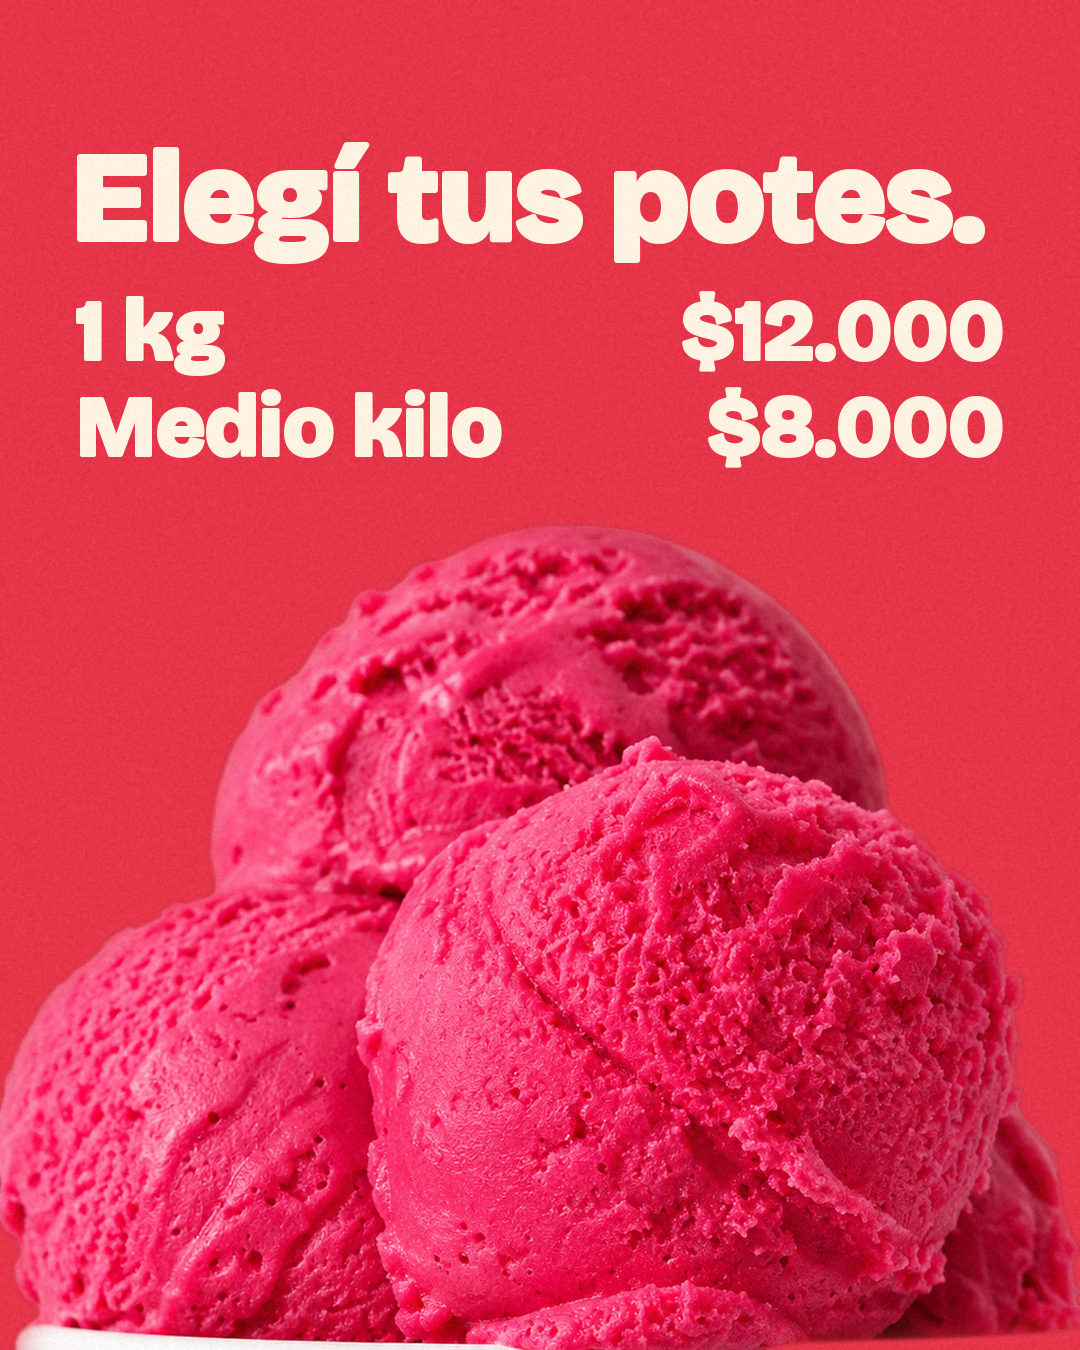
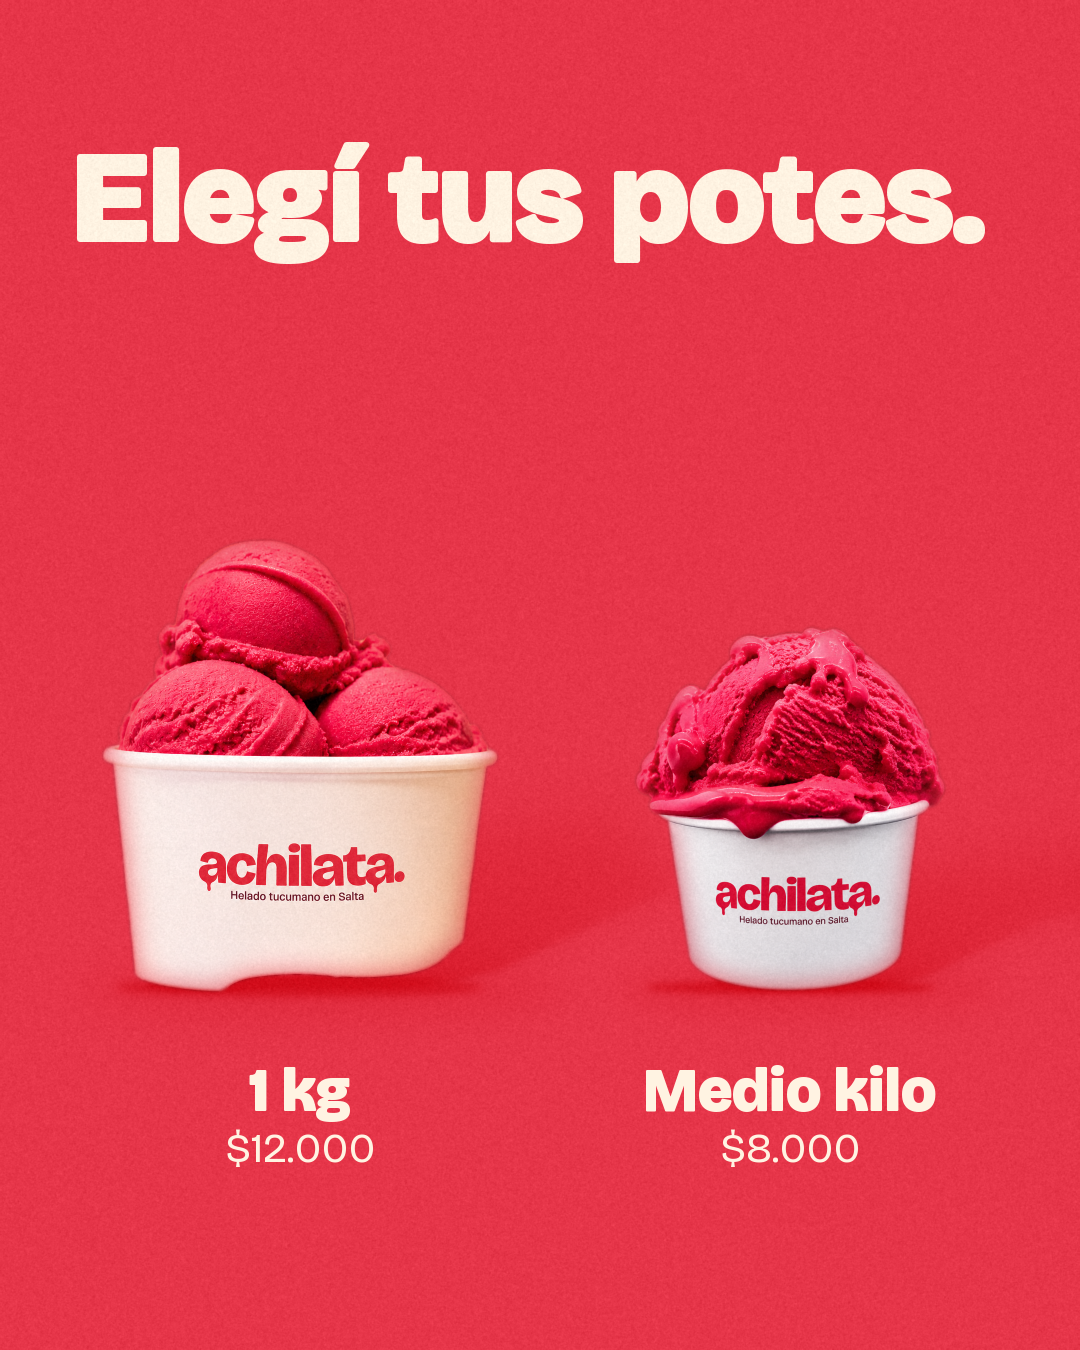
P13 sin turnos: placa 2 con aire y potes chicos, placa 3 Poné tu dirección; historias de la web quedan H24 y H25

diff --git a/06_Assets/fotos/herramientas/build_p13_web.py b/06_Assets/fotos/herramientas/build_p13_web.py
@@ -2,7 +2,8 @@
 # Rehechas a partir de la P17 y las H06 del colega. Reglas nuevas de Lauti:
 #  - bordes del recorte difuminados y suaves, con sombra natural: Lienzo.suave = 1.8
 #  - el texto nunca pisa el producto: primero se mide dónde termina el texto y el producto va debajo, con aire
-#  - textos breves; un solo peso por renglón, también dentro de la tabla de turnos
+#  - textos breves; un solo peso por renglón
+#  - 26/11: sin turnos por ahora. La placa 2 con mucho aire, potes chicos lado a lado como las placas de sabores de Morgenstern's
 # Uso: python build_p13_web.py <carpeta de recortes V>
 from feed_comun import *
 V=sys.argv[1]
@@ -47,33 +48,35 @@ A=producto(L,'05',fin_texto+AIRE,1.0,0,'r')
 def at(d,im):
     T(d,72,tb,'Pedí desde la web.',G)
 def ad(d,im):
-    d.text((1000,tb+62),'potes, día y turno.',font=INK(46),fill=CREMA,anchor='rs')
+    d.text((1000,tb+62),'desde el celular.',font=INK(46),fill=CREMA,anchor='rs')
     poner_logo(im,80,1275,150)
 guardar(L.render(at,ad),f'{OP}\\P13 1 pedi desde la web.png')
 
-# ---------------- P13 2 · Elegí tus potes ----------------
+# ---------------- P13 2 · Elegí tus potes: dos potes sobre el mismo piso, etiqueta corta debajo, mucho aire ----------------
 L=lienzo(*P,1302)
-G=fit('Elegí tus potes.',930,mx=150); f=XB(84)
-tb=150+round(G.size*0.72); r1=tb+120; r2=r1+96
-t22=r2+AIRE; A=producto(L,'22',t22,max(0.92,(P[1]+40-t22)/815),540,'c',sombra='')   # el borde cortado del pote sale por abajo
+G=fit('Elegí tus potes.',930,mx=150)
+tb=150+round(G.size*0.72); PISO=990
+A=producto(L,'01',PISO-round(900*0.50),0.50,300,'c',sombra='piso',piso=PISO)
+A=producto(L,'28',PISO-round(906*0.40),0.40,790,'c',sombra='piso',piso=PISO)
 def at(d,im):
     T(d,72,tb,'Elegí tus potes.',G)
-    T(d,76,r1,'1 kg',f); T(d,1004,r1,'$12.000',f,anchor='rs')
-    T(d,76,r2,'Medio kilo',f); T(d,1004,r2,'$8.000',f,anchor='rs')
-guardar(L.render(at,None),f'{OP}\\P13 2 elegi tus potes.png')
-
-# ---------------- P13 3 · Elegí tu turno ----------------
-L=lienzo(*P,1303)
-G=fit('Elegí tu turno.',930,mx=150)
-tb=150+round(G.size*0.72)
-ty=tb+40; fin=ty+4*92+3*14; nota=fin+50
-A=producto(L,'13',nota+AIRE,0.62,0,'r',sombra='')
-def at(d,im):
-    T(d,72,tb,'Elegí tu turno.',G)
 def ad(d,im):
-    tabla(d,76,ty,928,92,14,XB(32),RG(24))
-    T(d,80,nota,'Cada turno cierra unas horas antes.',RG(32),stroke=False)
-guardar(L.render(at,ad),f'{OP}\\P13 3 elegi tu turno.png')
+    for x,n,pr in [(300,'1 kg','$12.000'),(790,'Medio kilo','$8.000')]:
+        T(d,x,PISO+120,n,XB(58),anchor='ms'); T(d,x,PISO+172,pr,RG(42),anchor='ms',stroke=False)
+guardar(L.render(at,ad),f'{OP}\\P13 2 elegi tus potes.png')
+
+# ---------------- P13 3 · Poné tu dirección ----------------
+L=lienzo(*P,1303)
+G=fit('Poné tu dirección.',930,mx=150)
+tb=150+round(G.size*0.72); l1=tb+62; l2=l1+46
+A=producto(L,'14',l2+AIRE+40,0.66,0,'l')
+def at(d,im):
+    T(d,72,tb,'Poné tu dirección.',G)
+    T(d,80,l1,'Grand Bourg, San Lorenzo Chico, San Lorenzo,',RG(36),stroke=False)
+    T(d,80,l2,'El Tipal y La Almudena.',RG(36),stroke=False)
+def ad(d,im):
+    d.text((1000,l2+90),'y te la llevamos.',font=INK(46),fill=CREMA,anchor='rs')
+guardar(L.render(at,ad),f'{OP}\\P13 3 pone tu direccion.png')
 
 # ---------------- P13 4 · Pagás como quieras ----------------
 L=lienzo(*P,1304)
@@ -95,34 +98,22 @@ tb=300+round(G.size*0.72); l1=tb+70; lk=l1+92
 A=producto(L,'05',lk+AIRE+30,1.32,0,'r')
 def at(d,im):
     T(d,72,tb,'Tenemos web.',G)
-    T(d,80,l1,'Pedí con turno de entrega.',RG(48),stroke=False)
+    T(d,80,l1,'Pedí tu achilata desde el celular.',RG(48),stroke=False)
     T(d,76,lk,'Link en la bio.',XB(80))
 guardar(L.render(at,None),f'{OH}\\H24 tenemos web.png')
 
-# H25 · Los turnos
-L=lienzo(*S,2501)
-G=fit('Los turnos.',930,mx=230)
-tb=300+round(G.size*0.72); ty=tb+50; fin=ty+4*124+3*18; nota=fin+60
-A=producto(L,'16',nota+AIRE+20,0.66,1080,'r',sombra='piso',piso=1680)
-def at(d,im):
-    T(d,72,tb,'Los turnos.',G)
-def ad(d,im):
-    tabla(d,76,ty,928,124,18,XB(42),RG(30))
-    T(d,80,nota,'Elegís el día y el turno en la web.',RG(40),stroke=False)
-guardar(L.render(at,ad),f'{OH}\\H25 los turnos.png')
-
-# H26 · Cómo pedir: tres pasos cortos y el pote debajo, sin tocar el texto
+# H25 · Cómo pedir: tres pasos cortos y el pote debajo, sin tocar el texto
 L=lienzo(*S,2601)
 G=fit('Cómo pedir.',930,mx=230)
 tb=300+round(G.size*0.72)
-pasos=['1. Entrá al link de la bio.','2. Elegí potes y turno.','3. Pagá como quieras.']
+pasos=['1. Entrá al link de la bio.','2. Elegí tus potes.','3. Poné tu dirección y pagá.']
 ys=[tb+80+i*62 for i in range(3)]; yl=ys[-1]+100
 A=producto(L,'11',yl+AIRE+20,0.80,540,'c',sombra='')
 def at(d,im):
     T(d,72,tb,'Cómo pedir.',G)
     for y,t in zip(ys,pasos): T(d,80,y,t,RG(46),stroke=False)
     T(d,76,yl,'Y te la llevamos.',XB(76))
-guardar(L.render(at,None),f'{OH}\\H26 como pedir web.png')
+guardar(L.render(at,None),f'{OH}\\H25 como pedir web.png')
 
 if len(sys.argv)>2:
     hoja(hechos[:4],sys.argv[2]+'/p13.jpg',w=432,h=540)

diff --git a/04_Contenido/Publicaciones/P13 Pedí desde la web/brief.md b/04_Contenido/Publicaciones/P13 Pedí desde la web/brief.md
@@ -4,16 +4,16 @@
 - **Medida:** 1080 × 1350 px por placa
 
 ## La idea
-Rehecha el 26/11 a partir de la P17 del colega, con bordes del recorte difuminados y el texto siempre separado del producto.
-- Placa 1: Pedí desde la web, con la nota potes, día y turno, la mano con el pote, foto 05, y el logo.
-- Placa 2: Elegí tus potes, 1 kg $12.000 y medio kilo $8.000, con las bochas que salen por abajo, foto 22. Sin pedido mínimo: la web pide desde 1 pote.
-- Placa 3: Elegí tu turno, con la tabla de los cuatro turnos y la hora de cierre, y la bocha en la espátula, foto 13. Los turnos salen de la web.
+Rehecha el 26/11 a partir de la P17 del colega, con bordes del recorte difuminados y el texto siempre separado del producto. Sin turnos por ahora.
+- Placa 1: Pedí desde la web, con la nota desde el celular, la mano con el pote, foto 05, y el logo.
+- Placa 2: Elegí tus potes. Con mucho aire, como las placas de sabores de Morgenstern's: los dos potes chicos sobre el mismo piso, fotos 01 y 28, y debajo de cada uno 1 kg $12.000 y Medio kilo $8.000.
+- Placa 3: Poné tu dirección, con las cinco zonas y la nota y te la llevamos, foto 14.
 - Placa 4: Pagás como quieras, transferencia o efectivo, el alias por WhatsApp y Link en la bio, foto 02.
 
-**Hecha.** Los archivos finales están en `final/`, en orden: P13 1 pedi desde la web.png, P13 2 elegi tus potes.png, P13 3 elegi tu turno.png, P13 4 pagas como quieras.png.
+**Hecha.** Los archivos finales están en `final/`, en orden: P13 1 pedi desde la web.png, P13 2 elegi tus potes.png, P13 3 pone tu direccion.png, P13 4 pagas como quieras.png.
 
 ## Texto de la publicación
-Ahora pedís desde la web. Elegís tus potes, el día y el turno en que te la llevamos, y cómo pagás. El link está en la bio ☀🩷
+Ahora pedís desde la web. Elegís tus potes, ponés tu dirección y elegís cómo pagar. El link está en la bio ☀🩷
 
 ## Estado
 **No subida.**

diff --git a/04_Contenido/registro_publicaciones.md b/04_Contenido/registro_publicaciones.md
@@ -22,3 +22,4 @@
 | 26/11/2026 | Instagram | Envío completo del feed | Publicaciones 3 a 12 en orden: P08, R03, P04, P09, R01, P11, P05, P10, R07 y P13, cada una con su encabezado de número, formato y horario, los archivos como documento y el texto aparte | | Enviado al WhatsApp de Lauti |
 | 26/11/2026 | Instagram | Historias de hoy, 11 | Menú 1 y 2, compartir P08, Zonas 1, Pedidos 1 y 2, encuesta 1 kg o medio kilo, Pedidos 3, compartir R03, Achilata 1 y 2. Portadas de Menú, Pedidos, Zonas y Achilata. Eventos queda para el viernes 27/11 | | Enviado al WhatsApp de Lauti |
 | 26/11/2026 | Instagram | P13 Pedí desde la web y H24 a H26 | Rehechas de la P17 y las H06 del colega, con bordes difuminados, suave 1.8, y el texto separado del producto. Sin pedido mínimo de 2 potes, porque la web pide desde 1 | | Enviado al WhatsApp de Lauti |
+| 26/11/2026 | Instagram | P13 v2 y historias de la web | Sin turnos: la placa 3 pasa a Poné tu dirección y se borra la historia de los turnos. Placa 2 con mucho aire, dos potes chicos al estilo Morgenstern's. Historias H24 Tenemos web y H25 Cómo pedir | | Enviado al WhatsApp de Lauti |

diff --git a/04_Contenido/Historias/_indice.md b/04_Contenido/Historias/_indice.md
@@ -29,6 +29,5 @@ Cada archivo lleva su número y de qué se trata. Para una nueva, se sigue con e
 | H21 | H21 pedidos abiertos.png | Pedidos abiertos, hoy salimos a repartir, con los números y lugar para el enlace a WhatsApp. |  |
 | H22 | H22 preguntanos.png | Preguntanos lo que quieras, para la caja de preguntas. |  |
 | H23 | H23 finde de achilata.png | Finde de achilata, pedila con tiempo, para la cuenta regresiva. |  |
-| H24 | H24 tenemos web.png | Tenemos web, pedí con turno de entrega, Link en la bio. | Pedidos, si se quiere |
-| H25 | H25 los turnos.png | Los turnos: los cuatro, con su horario y hasta qué hora se pide. | Pedidos, si se quiere |
-| H26 | H26 como pedir web.png | Cómo pedir desde la web en tres pasos, y te la llevamos. | Pedidos, si se quiere |
+| H24 | H24 tenemos web.png | Tenemos web, pedí tu achilata desde el celular, Link en la bio. | Pedidos, si se quiere |
+| H25 | H25 como pedir web.png | Cómo pedir desde la web en tres pasos: el link, tus potes, tu dirección y pagás. | Pedidos, si se quiere |
